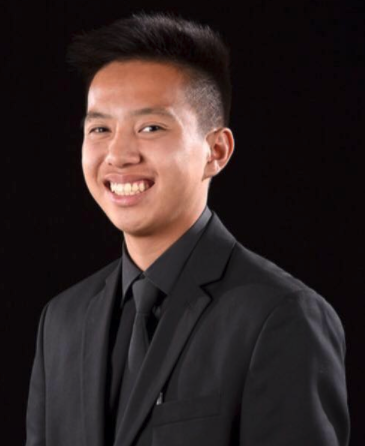
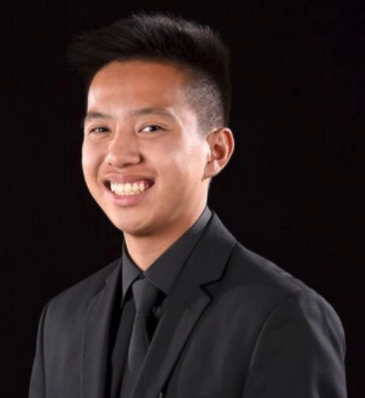
added img alt

diff --git a/adv5.html b/adv5.html
@@ -25,15 +25,15 @@
             from them. You wonder what they want. Then they all offer a ride to take you back home. Who do you ride with? 
         </h2>
 
-        <img src="andrew.png" class="officers" onclick="andrew()">
-        <img src="derek.png" class="officers" onclick="derek()">
-        <img src="kristin.png" class="officers" onclick="kristin()"><br>
-        <img src="calvin.png" class="officers" onclick="calvin()">
-        <img src="brandon.png" class="officers" onclick="brandon()">
-        <img src="brandondoan.png" class="officers" onclick="brandondoan()"> <br>
-        <img src="kim.png" class="officers" onclick="kim()">
-        <img src="anna.png" class="officers" onclick="anna()">
-        <img src="don.png" class="officers" onclick="don()">
+        <img src="andrew.png" alt="Andrew" class="officers" onclick="andrew()">
+        <img src="derek.png" alt="Derek" class="officers" onclick="derek()">
+        <img src="kristin.png" alt="Kristin" class="officers" onclick="kristin()">
+        <img src="calvin.png" alt="Calvin" class="officers" onclick="calvin()">
+        <img src="brandon.png" alt="Brandon" class="officers" onclick="brandon()">
+        <img src="brandondoan.png" alt="Brandon Doan" class="officers" onclick="brandondoan()">
+        <img src="kim.png" alt="Kim" class="officers" onclick="kim()">
+        <img src="anna.png" alt="Anna" class="officers" onclick="anna()">
+        <img src="don.png" alt="Don" class="officers" onclick="don()">
 
 
 

diff --git a/adv3.html b/adv3.html
@@ -19,11 +19,11 @@
 
     <div class="row">
         <div class="column">
-            <img src = "https://s.hdnux.com/photos/01/11/02/32/19146397/5/920x920.jpg" style="width:750px;height:600px;" onclick="location.href='deathscreen.html'">
+            <img src = "https://s.hdnux.com/photos/01/11/02/32/19146397/5/920x920.jpg" alt="Toilet Paper" style="width:100%;height:auto;" onclick="location.href='deathscreen.html'">
             <h4> Ignore James Nguyen and go for the toilet paper </h4>
         </div>
         <div class="column">
-            <img src = "https://gilaherald.com/wp-content/uploads/2019/04/pit-bull-on-a-leash.jpg" style="width:750px;height:600px;" onclick="location.href='adv4.html'">
+            <img src = "https://gilaherald.com/wp-content/uploads/2019/04/pit-bull-on-a-leash.jpg" alt="Scary Dog" style="width:100%;height:auto;" onclick="location.href='adv4.html'">
             <h4> Fight the dogman with James Nguyen</h4>
         </div>
     </div>

diff --git a/adv2.html b/adv2.html
@@ -19,10 +19,10 @@
 
     <div class="row">
         <div class="column">
-            <img src = "https://specials-images.forbesimg.com/imageserve/82a018350ea24de796e60ae9d6a9c7da/960x0.jpg?fit=scale" style="width:750px;" onclick="location.href='deathscreen.html'">
+            <img src = "https://specials-images.forbesimg.com/imageserve/82a018350ea24de796e60ae9d6a9c7da/960x0.jpg?fit=scale" alt="Walmart" style="width:100%;height:auto;" onclick="location.href='deathscreen.html'">
         </div>
         <div class="column">
-            <img src = "https://cdn.britannica.com/13/193813-050-0071A11F/store-Costco-City-of-Toronto.jpg" style="width:750px;" onclick="location.href='adv3.html'">
+            <img src = "https://cdn.britannica.com/13/193813-050-0071A11F/store-Costco-City-of-Toronto.jpg" alt="Costco" style="width:100%;height:auto;" onclick="location.href='adv3.html'">
         </div>
     </div>
 </body>

diff --git a/adv6.html b/adv6.html
@@ -16,7 +16,7 @@
             week and is super excited too meet their big. If you've already had been revealed, rememeber that you will recieve as much effort as you put into this
             program. I promise you'll have a great time with your big and line if you continue to put yourself out there to bond with them. Some littles
             might click with their big right away and others it might take some time. Don't compare your experience with others because each and every 
-            experience is special and unique to you, and that's what makes this program so beautiful. <br>
+            experience is special and unique to you, and that's what makes this program so beautiful. Stay safe!  <br>
 
             From your prez,
              Angelo <3 <br>

diff --git a/adv1.css b/adv1.css
@@ -6,6 +6,8 @@ img{
     margin-left: 30px;
     margin-right: 30px;
     margin-top: 30px;
+    width: 90%;
+    height: auto;
 }
 
 /* _____________________________________ADVENTURE 1 */
@@ -58,13 +60,21 @@ img{
   #chat1, #chat2, #prompt1{
       visibility: hidden;
   }
+
+#james{
+    width: auto;
+    height: auto;
+}
  
 
   /* _________________________ADVENTURE 5 */
 
   .officers{
-      width: 400px;
-      height: 600px;
+      /* width: 400px;       to make it all the same size, but doesn't adjust to screen size 
+      height: 600px; */
+      width: 30%;
+      margin: 1.3%;
+      float: none;
   }
 
   #carOffer{

diff --git a/adv4.html b/adv4.html
@@ -15,7 +15,7 @@
 
     <div class="row adv4text">
         <div class="center column">
-            <img id="james" src="james.png">
+            <img id="james" src="james.png" alt="James" onclick="alert('ligma!')">
         </div>
 
         <div class="center column">

diff --git a/adv1.html b/adv1.html
@@ -25,7 +25,7 @@
 
 
     <div id="zoom"> 
-        <img src = "zoom.png" onclick="location.href='deathscreen.html'">
+        <img src = "zoom.png" alt="Zoom Webpage" onclick="location.href='deathscreen.html'">
     </div>
 
 
